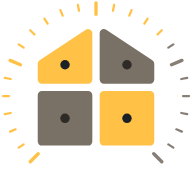
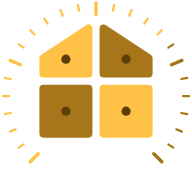
Icônes finales : jaune foncé, maison centrée et aérée dans la jauge, maison seule en petit (barre des tâches), manifest complété
Claude-Session: https://claude.ai/code/session_01UzEPtZNZEKVBjzia6zzU1u

diff --git a/index.html b/index.html
@@ -8,6 +8,8 @@
 <meta name="theme-color" content="#17323E">
 <link rel="manifest" href="manifest.webmanifest">
 <link rel="icon" href="icon.svg" type="image/svg+xml">
+<link rel="icon" type="image/png" sizes="48x48" href="favicon-48.png">
+<link rel="icon" type="image/png" sizes="192x192" href="icon-192.png">
 <link rel="apple-touch-icon" href="apple-touch-icon.png">
 <link rel="preconnect" href="https://fonts.googleapis.com">
 <link rel="preconnect" href="https://fonts.gstatic.com" crossorigin>

diff --git a/sw.js b/sw.js
@@ -1,5 +1,5 @@
 /* Réseau d'abord (toujours revalidé : le cache HTTP de GitHub Pages dure 10 min) ; copie locale si hors ligne. */
-const C = 'maxisk-v10';
+const C = 'maxisk-v11';
 self.addEventListener('install', () => self.skipWaiting());
 self.addEventListener('activate', e => e.waitUntil(caches.keys().then(ks => Promise.all(ks.filter(k => k.startsWith('maxisk-') && k !== C).map(k => caches.delete(k)))).then(() => self.clients.claim())));
 self.addEventListener('fetch', e => {
